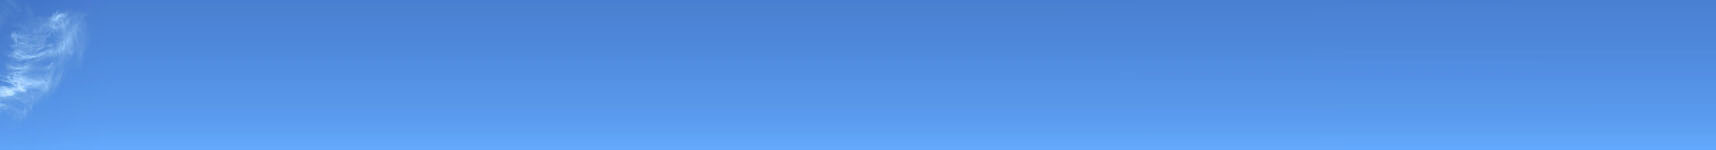
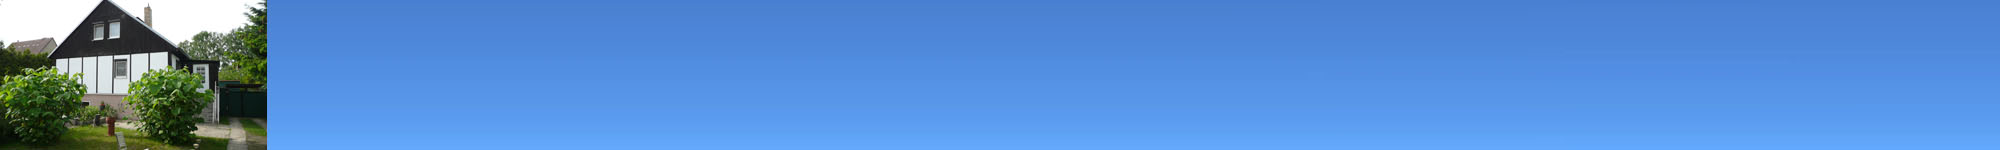
20121220-Hompage energietraeger programmiert

Changed region(s): [[0.0, 0.0, 0.1544, 1.0]]

diff --git a/HTML/uebungen/style.css b/HTML/uebungen/style.css
@@ -1,0 +1,39 @@
+<!--
+#kopfbereich {
+  background:url(bilder/saeulen1.jpg) no-repeat left top;
+  height:150px;
+  color:white;
+  text-align:right;
+  font-size:1.5em;
+  padding:0.4em 0.4em 0 0;
+}
+#steuerung {
+  background-color:#ceb98e;
+}
+#schatten {
+  background:url(bilder/schatten.png) repeat-x;
+  height:32px;
+}
+#inhalt {
+  /*background-color: orange;*/
+  height:550px;
+  padding-left:2em;
+}
+#unten {
+  height:350px;
+  padding-left:2em;
+}
+html, body {
+  font: 100% /*Arial, Helvetica*/lucida, handwriting, sans-serif;
+}
+* {
+  margin:0;
+  padding:0;
+}
+#inhalt h1, h2, h3, p, ul {
+  padding-bottom:.7em;
+}
+#inhalt ul {
+  padding-left:2em;
+}
+-->
